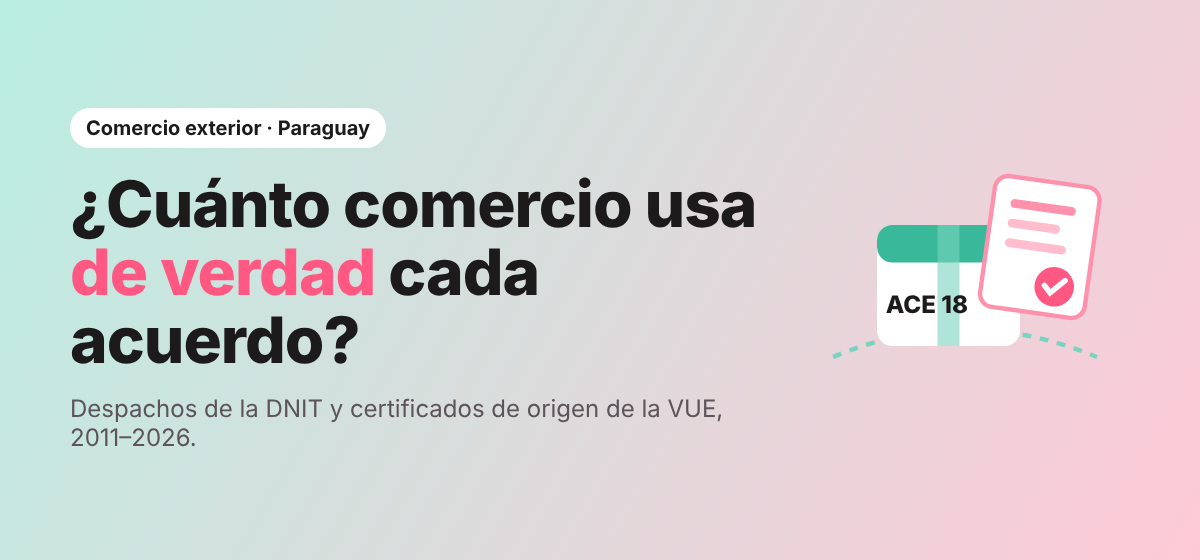
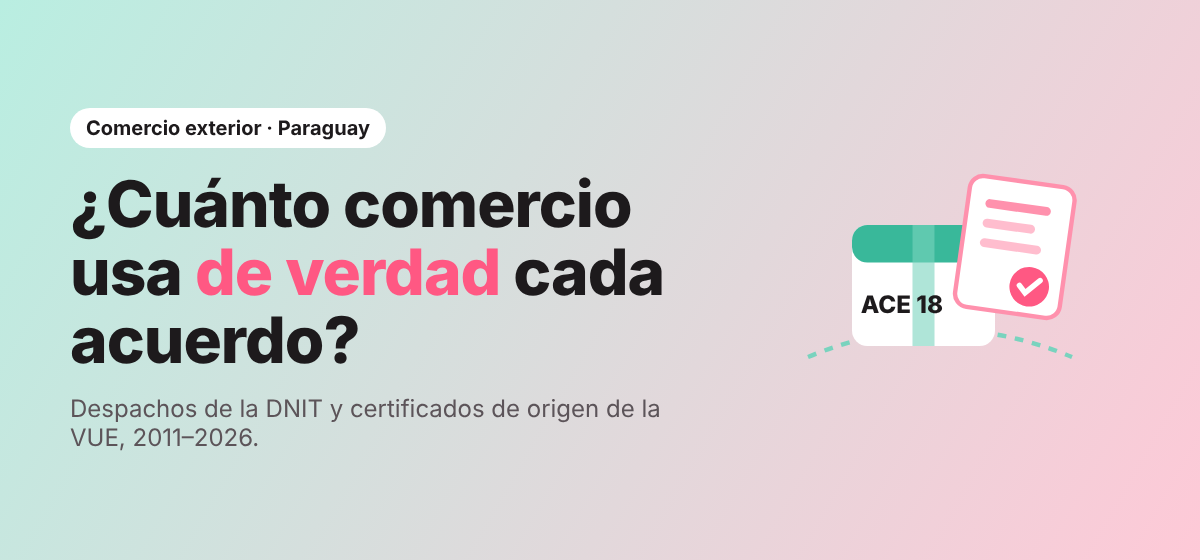
Aviso de proyecto independiente al inicio; tarjetas unificadas; página de versiones y correlaciones de la NCM

diff --git a/docs/aduana.html b/docs/aduana.html
@@ -122,9 +122,11 @@ footer { margin-top: 48px; padding: 28px 0 48px; border-top: 1px solid var(--lin
 .comentar p { margin: 0 0 14px; }
 .comentar a.boton { display: inline-block; padding: 9px 16px; border-radius: 8px; background: #39b89a; color: #08261f; font-weight: 600; text-decoration: none; }
 @media print { .comentar { display: none !important; } }
+.aviso-top { background: var(--panel); border-bottom: 1px solid var(--line); color: var(--text2); font-size: 13.5px; text-align: center; padding: 7px 16px; }
 </style>
 </head>
 <body>
+<div class="aviso-top">Proyecto independiente. No representa ni cuenta con el respaldo de la DNIT, del Banco Central del Paraguay, del Ministerio de Industria y Comercio ni de ningún gobierno.</div>
 
 <header>
   <div class="wrap">

diff --git a/docs/index.html b/docs/index.html
@@ -149,9 +149,11 @@ footer { margin-top: 48px; padding: 28px 0 48px; border-top: 1px solid var(--lin
 .comentar p { margin: 0 0 14px; }
 .comentar a.boton { display: inline-block; padding: 9px 16px; border-radius: 8px; background: #39b89a; color: #08261f; font-weight: 600; text-decoration: none; }
 @media print { .comentar { display: none !important; } }
+.aviso-top { background: var(--panel); border-bottom: 1px solid var(--line); color: var(--text2); font-size: 13.5px; text-align: center; padding: 7px 16px; }
 </style>
 </head>
 <body>
+<div class="aviso-top">Proyecto independiente. No representa ni cuenta con el respaldo de la DNIT, del Banco Central del Paraguay, del Ministerio de Industria y Comercio ni de ningún gobierno.</div>
 
 <header>
   <div class="wrap">
